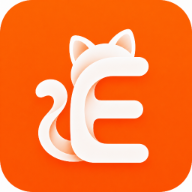
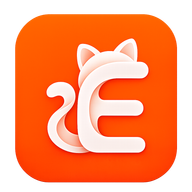
feat(client): switch on web push and make the storefront installable
The push pipeline was already written end to end — token registration,
FcmToken, notifyNewMessage, notifyOrderShipped — and had never run once:
none of the NEXT_PUBLIC_FIREBASE_* vars reached the build, so the worker
was served with an empty config and the client skipped registration
entirely. They are wired through all three places a NEXT_PUBLIC_ var has
to appear, and the service account lives in the server's env.

Installability needed a worker with a fetch handler, which is folded into
the existing Firebase one rather than added beside it: a browser keeps one
registration per scope, so a second worker at '/' would have displaced
push without a word. The offline block runs first and the Firebase block
is wrapped, because a throw at worker top level aborts installation — a
blocked CDN should not cost us the install prompt.

Only navigations are intercepted, and only GET, and only network-first.
Nothing else calls respondWith at all. This is a storefront: a worker that
cached HTML, /api, or the hashed chunks would serve an expired sale price
from a disk we cannot reach, or pair one build's chunks with the next
build's HTML.

Registration moved off the login path. It used to sit inside
initPushNotifications, so a signed-out visitor had no worker and could
never be offered the app.

Also here, sharing the same files: the Pinterest domain-verification tag,
the tag id finally reaching CI, and an explicit empty default for it so
[…]

diff --git a/apps/client/src/app/firebase-messaging-sw.js/route.ts b/apps/client/src/app/firebase-messaging-sw.js/route.ts
@@ -1,7 +1,22 @@
-import { NextResponse } from 'next/server';
+import { NextResponse } from 'next/server';
 
-// Dynamic route that serves the Firebase Messaging service worker with env vars injected.
-// Registered as /firebase-messaging-sw.js so FCM can find it at the root scope.
+/**
+ * The app's ONLY service worker.
+ *
+ * It does two jobs that would otherwise want two workers: Firebase Cloud
+ * Messaging, and the offline shell that makes the site installable. They are
+ * merged deliberately — a browser keeps one active registration per scope, so
+ * a second worker registered at '/' would silently displace this one and take
+ * push down with it.
+ *
+ * Kept at this exact filename because that is where FCM looks by default; the
+ * client also passes this registration to getToken() explicitly, so there is
+ * never a second, auto-registered copy.
+ *
+ * Served from a route rather than public/ so the Firebase config can be
+ * injected, and with no-store so a stale worker cannot pin users to an old
+ * build (browsers cap service-worker script caching at 24h otherwise).
+ */
 export async function GET() {
   const config = JSON.stringify({
     apiKey:            process.env['NEXT_PUBLIC_FIREBASE_API_KEY']            ?? '',
@@ -12,36 +27,138 @@ export async function GET() {
   });
 
   const content = `
-importScripts('https://www.gstatic.com/firebasejs/9.0.0/firebase-app-compat.js');
-importScripts('https://www.gstatic.com/firebasejs/9.0.0/firebase-messaging-compat.js');
+// ---------------------------------------------------------------------------
+// Offline shell. Deliberately first, and deliberately independent of Firebase:
+// everything below this block is allowed to fail without taking installability
+// with it.
+// ---------------------------------------------------------------------------
 
-firebase.initializeApp(${config});
+const CACHE_NAME  = 'ezihubb-shell-v1';
+const OFFLINE_URL = '/offline.html';
+const PRECACHE    = [OFFLINE_URL, '/android-chrome-192x192.png'];
 
-const messaging = firebase.messaging();
-
-messaging.onBackgroundMessage((payload) => {
-  const { title, body } = payload.notification ?? {};
-  self.registration.showNotification(title ?? 'EziHubb', {
-    body:    body ?? '',
-    icon:    '/icons/icon-192x192.png',
-    badge:   '/icons/badge-72x72.png',
-    data:    payload.data,
-    actions: [{ action: 'open', title: 'View' }],
-  });
+self.addEventListener('install', (event) => {
+  event.waitUntil(
+    caches.open(CACHE_NAME).then((cache) => Promise.all(
+      // Per item, and each failure swallowed. addAll() rejects the whole
+      // batch if any single entry 404s, which would reject install, leave
+      // the worker unactivated, and cost us the install prompt and push as
+      // well as the offline page. A missing entry should cost only itself.
+      // cache: reload so a stale CDN copy is never what gets frozen here.
+      PRECACHE.map((url) =>
+        cache.add(new Request(url, { cache: 'reload' })).catch(() => {})
+      )
+    ))
+  );
+  // Take over on the next load instead of waiting for every tab to close.
+  // Without this a broken worker can pin users to it for days.
+  self.skipWaiting();
 });
+
+self.addEventListener('activate', (event) => {
+  event.waitUntil(
+    caches.keys()
+      .then((keys) => Promise.all(
+        // Only our own generations. The unfiltered version deleted every
+        // Cache Storage entry on the origin, including any a library or a
+        // future feature had put there.
+        keys
+          .filter((k) => k.startsWith('ezihubb-') && k !== CACHE_NAME)
+          .map((k) => caches.delete(k))
+      ))
+      .then(() => self.clients.claim())
+  );
+});
+
+self.addEventListener('fetch', (event) => {
+  // Only top-level page loads are intercepted, and even those are network
+  // first. Nothing else is touched at all — no respondWith means the browser
+  // handles the request exactly as it would with no worker installed.
+  //
+  // This is a storefront: prices, stock and running sales change under us. A
+  // worker that cached HTML or /api responses would serve an expired sale
+  // price from the user's own disk, where we cannot clear it. Precaching the
+  // hashed /_next/static chunks would be worse still — a chunk set from one
+  // build paired with HTML from the next is a ChunkLoadError.
+  //
+  // Navigations include form POSTs, and answering a failed POST with a 200
+  // offline page reads as "submitted" to the browser. Only GET is ours.
+  if (event.request.mode !== 'navigate' || event.request.method !== 'GET') return;
+
+  event.respondWith(
+    fetch(event.request).catch(() =>
+      caches.match(OFFLINE_URL).then((cached) => cached ?? Response.error())
+    )
+  );
+});
+
+
+// ---------------------------------------------------------------------------
+// Push. Guarded twice over, because a throw at worker top level aborts
+// installation — which would mean a Firebase outage or a blank config also
+// costs us the offline shell and the install prompt above.
+// ---------------------------------------------------------------------------
+
+const FIREBASE_CONFIG = ${config};
+
+try {
+  if (FIREBASE_CONFIG.apiKey) {
+    importScripts('https://www.gstatic.com/firebasejs/9.0.0/firebase-app-compat.js');
+    importScripts('https://www.gstatic.com/firebasejs/9.0.0/firebase-messaging-compat.js');
+
+    firebase.initializeApp(FIREBASE_CONFIG);
+    const messaging = firebase.messaging();
+
+    messaging.onBackgroundMessage((payload) => {
+      const notification = payload.notification || {};
+      self.registration.showNotification(notification.title || 'EziHubb', {
+        body: notification.body || '',
+        // /icons/ never existed. Worse than a 404: the path has no dot in its
+        // first segment, so middleware answers 307 to a locale prefix and the
+        // notification quietly falls back to the browser's own icon.
+        icon: '/android-chrome-192x192.png',
+        // No badge until a monochrome 72x72 mask exists — Android renders a
+        // full-colour icon here as a grey blob.
+        data: payload.data,
+        actions: [{ action: 'open', title: 'View' }],
+      });
+    });
+  }
+} catch (err) {
+  // Push is off for this session; the offline shell above still works.
+  // Logged rather than swallowed: without this, "notifications stopped
+  // working" has no trace anywhere to start from.
+  console.warn('[sw] push init failed:', err);
+}
 
 self.addEventListener('notificationclick', (event) => {
   event.notification.close();
-  const clickAction = event.notification.data?.clickAction ?? '/';
-  clients.openWindow(clickAction);
+  const target = (event.notification.data && event.notification.data.clickAction) || '/';
+
+  // Focus a tab we already have rather than stacking up new windows, and wrap
+  // it in waitUntil — the previous version called openWindow bare, so the
+  // worker could be killed before the window ever opened.
+  event.waitUntil(
+    self.clients.matchAll({ type: 'window', includeUncontrolled: true }).then((clientList) => {
+      for (const client of clientList) {
+        if ('focus' in client) {
+          // navigate() rejects on a client this worker does not control,
+          // and an unhandled rejection here loses the focus() below with it.
+          if ('navigate' in client) client.navigate(target).catch(() => {});
+          return client.focus();
+        }
+      }
+      return self.clients.openWindow(target);
+    })
+  );
 });
 `.trim();
 
   return new NextResponse(content, {
     headers: {
-      'Content-Type':          'application/javascript; charset=utf-8',
+      'Content-Type':           'application/javascript; charset=utf-8',
       'Service-Worker-Allowed': '/',
-      'Cache-Control':         'no-store',
+      'Cache-Control':          'no-store',
     },
   });
 }

diff --git a/apps/client/src/app/[locale]/layout.tsx b/apps/client/src/app/[locale]/layout.tsx
@@ -1,4 +1,4 @@
-import type { Metadata } from 'next';
+import type { Metadata, Viewport } from 'next';
 import { Suspense } from 'react';
 import { Inter, Playfair_Display } from 'next/font/google';
 import Script from 'next/script';
@@ -21,6 +21,7 @@ import { OrganizationStructuredData } from '../../components/seo/OrganizationStr
 import { WebsiteStructuredData } from '../../components/seo/WebsiteStructuredData';
 import { AffiliateTracker } from '../../components/providers/AffiliateTracker';
 import { ApiLocaleSync } from '../../components/providers/ApiLocaleSync';
+import { ServiceWorkerRegistrar } from '../../components/providers/ServiceWorkerRegistrar';
 import { CurrencyProvider } from '../../lib/currency/currency-context';
 import '../global.css';
 
@@ -41,6 +42,17 @@ export const dynamic = 'force-dynamic';
 export function generateStaticParams() {
   return routing.locales.map((locale) => ({ locale }));
 }
+
+/**
+ * themeColor lives here, not in metadata: Next moved it to the viewport
+ * export and warns on the old placement. It paints the browser chrome and
+ * the splash screen of the installed app.
+ */
+export const viewport: Viewport = {
+  themeColor: '#E85D3F',
+  width: 'device-width',
+  initialScale: 1,
+};
 
 export async function generateMetadata({
   params,
@@ -97,8 +109,28 @@ export async function generateMetadata({
       apple: '/apple-touch-icon.png',
     },
     manifest: '/site.webmanifest',
+    // iOS ignores the manifest's display mode and reads these instead.
+    // Not cosmetic: iOS only delivers web push to a site the user has added
+    // to the Home Screen, so without standalone capability there is no way
+    // to receive a notification on an iPhone at all.
+    appleWebApp: {
+      capable: true,
+      title: 'EziHubb',
+      statusBarStyle: 'default',
+    },
     verification: {
       google: process.env.NEXT_PUBLIC_GOOGLE_SITE_VERIFICATION,
+      other: {
+        // Pinterest domain verification. Hardcoded on purpose, unlike the
+        // Google one above: the token is public by design (it is served in the
+        // HTML to anyone), it never changes, and routing it through a
+        // NEXT_PUBLIC_* var would add a fourth place it can silently go blank
+        // — which is exactly what happened to NEXT_PUBLIC_PINTEREST_TAG_ID,
+        // present in the Dockerfile and compose but missing from CI, so it
+        // builds as an empty string with only a warning. A verification tag
+        // that quietly disappears un-verifies the domain.
+        'p:domain_verify': '6d886686d601fe034f8c0f0153593cce',
+      },
     },
     alternates: buildAlternates('/', locale),
   };
@@ -187,6 +219,8 @@ export default async function LocaleLayout({
             <ChatDock />
             {/* Core Web Vitals reporting — logs in dev, sends to analytics in prod */}
             <WebVitals />
+            {/* Registers the service worker for everyone, signed in or not */}
+            <ServiceWorkerRegistrar />
             <CookieConsentBanner />
             <Suspense fallback={null}><MetaPixel /></Suspense>
             <Suspense fallback={null}><PinterestTag /></Suspense>

diff --git a/apps/client/public/offline.html b/apps/client/public/offline.html
@@ -1,0 +1,47 @@
+<!doctype html>
+<html lang="en">
+<head>
+<meta charset="utf-8">
+<meta name="viewport" content="width=device-width, initial-scale=1">
+<title>Offline — EziHubb</title>
+<!--
+  Served by the service worker when a page load fails. Everything is inline on
+  purpose: this file has to render with no network at all, so it cannot pull a
+  stylesheet, a font or an image. The icon below is the one asset the worker
+  precaches alongside this page.
+-->
+<style>
+  :root { color-scheme: light dark; }
+  body {
+    margin: 0; min-height: 100vh;
+    display: flex; align-items: center; justify-content: center;
+    font-family: Inter, system-ui, -apple-system, "Segoe UI", sans-serif;
+    background: #FDFCFB; color: #2F2A26;
+    padding: 24px;
+  }
+  main { text-align: center; max-width: 22rem; }
+  img { width: 72px; height: 72px; border-radius: 18px; }
+  h1 { font-size: 1.375rem; margin: 20px 0 8px; font-weight: 700; }
+  p  { font-size: 0.9375rem; line-height: 1.6; margin: 0; color: #6B6259; }
+  button {
+    margin-top: 24px; padding: 11px 28px; border: 0; border-radius: 999px;
+    background: #E85D3F; color: #fff;
+    font-size: 0.9375rem; font-weight: 600; font-family: inherit;
+    cursor: pointer;
+  }
+  button:hover { opacity: .9; }
+  @media (prefers-color-scheme: dark) {
+    body { background: #1C1917; color: #F5F3F1; }
+    p    { color: #A8A29E; }
+  }
+</style>
+</head>
+<body>
+  <main>
+    <img src="/android-chrome-192x192.png" alt="">
+    <h1>You are offline</h1>
+    <p>EziHubb needs a connection to load shops and listings. Check your network and try again.</p>
+    <button type="button" onclick="location.reload()">Try again</button>
+  </main>
+</body>
+</html>

diff --git a/apps/client/src/components/providers/ServiceWorkerRegistrar.tsx b/apps/client/src/components/providers/ServiceWorkerRegistrar.tsx
@@ -1,0 +1,44 @@
+'use client';
+
+import { useEffect } from 'react';
+
+/**
+ * Registers the app's single service worker for every visitor.
+ *
+ * This used to happen only inside initPushNotifications(), which runs after
+ * login and only once notification permission is granted — so a signed-out
+ * visitor had no worker at all, and Chrome will not offer to install an app
+ * whose scope has no worker with a fetch handler. Installability has nothing
+ * to do with being logged in, so registration cannot hang off auth.
+ *
+ * The worker itself is idempotent to register: same script URL and scope
+ * returns the existing registration rather than creating a second one, so it
+ * is safe that push.ts also awaits it.
+ */
+export function ServiceWorkerRegistrar() {
+  useEffect(() => {
+    if (!('serviceWorker' in navigator)) return;
+
+    // After load, not during: the worker fetches and precaches, and there is
+    // no reason for that to compete with the page the user is waiting on.
+    const register = () => {
+      navigator.serviceWorker
+        .register('/firebase-messaging-sw.js', { scope: '/' })
+        .catch(() => {
+          // Registration fails on unsupported or hardened browsers, and in
+          // private windows. Offline support and install are optional; the
+          // site works without them.
+        });
+    };
+
+    if (document.readyState === 'complete') {
+      register();
+      return;
+    }
+
+    window.addEventListener('load', register);
+    return () => window.removeEventListener('load', register);
+  }, []);
+
+  return null;
+}

diff --git a/apps/client/src/lib/notifications/push.ts b/apps/client/src/lib/notifications/push.ts
@@ -40,7 +40,11 @@ export async function initPushNotifications(): Promise<string | null> {
     const permission = await Notification.requestPermission();
     if (permission !== 'granted') return null;
 
-    // Register the service worker (dynamic route injects env vars)
+    // Idempotent: ServiceWorkerRegistrar already registers this exact script
+    // and scope for every visitor, and register() returns the existing
+    // registration rather than creating a second one. Kept here rather than
+    // awaiting navigator.serviceWorker.ready, which never resolves at all if
+    // that registration failed.
     const registration = await navigator.serviceWorker.register(
       '/firebase-messaging-sw.js',
       { scope: '/' },
